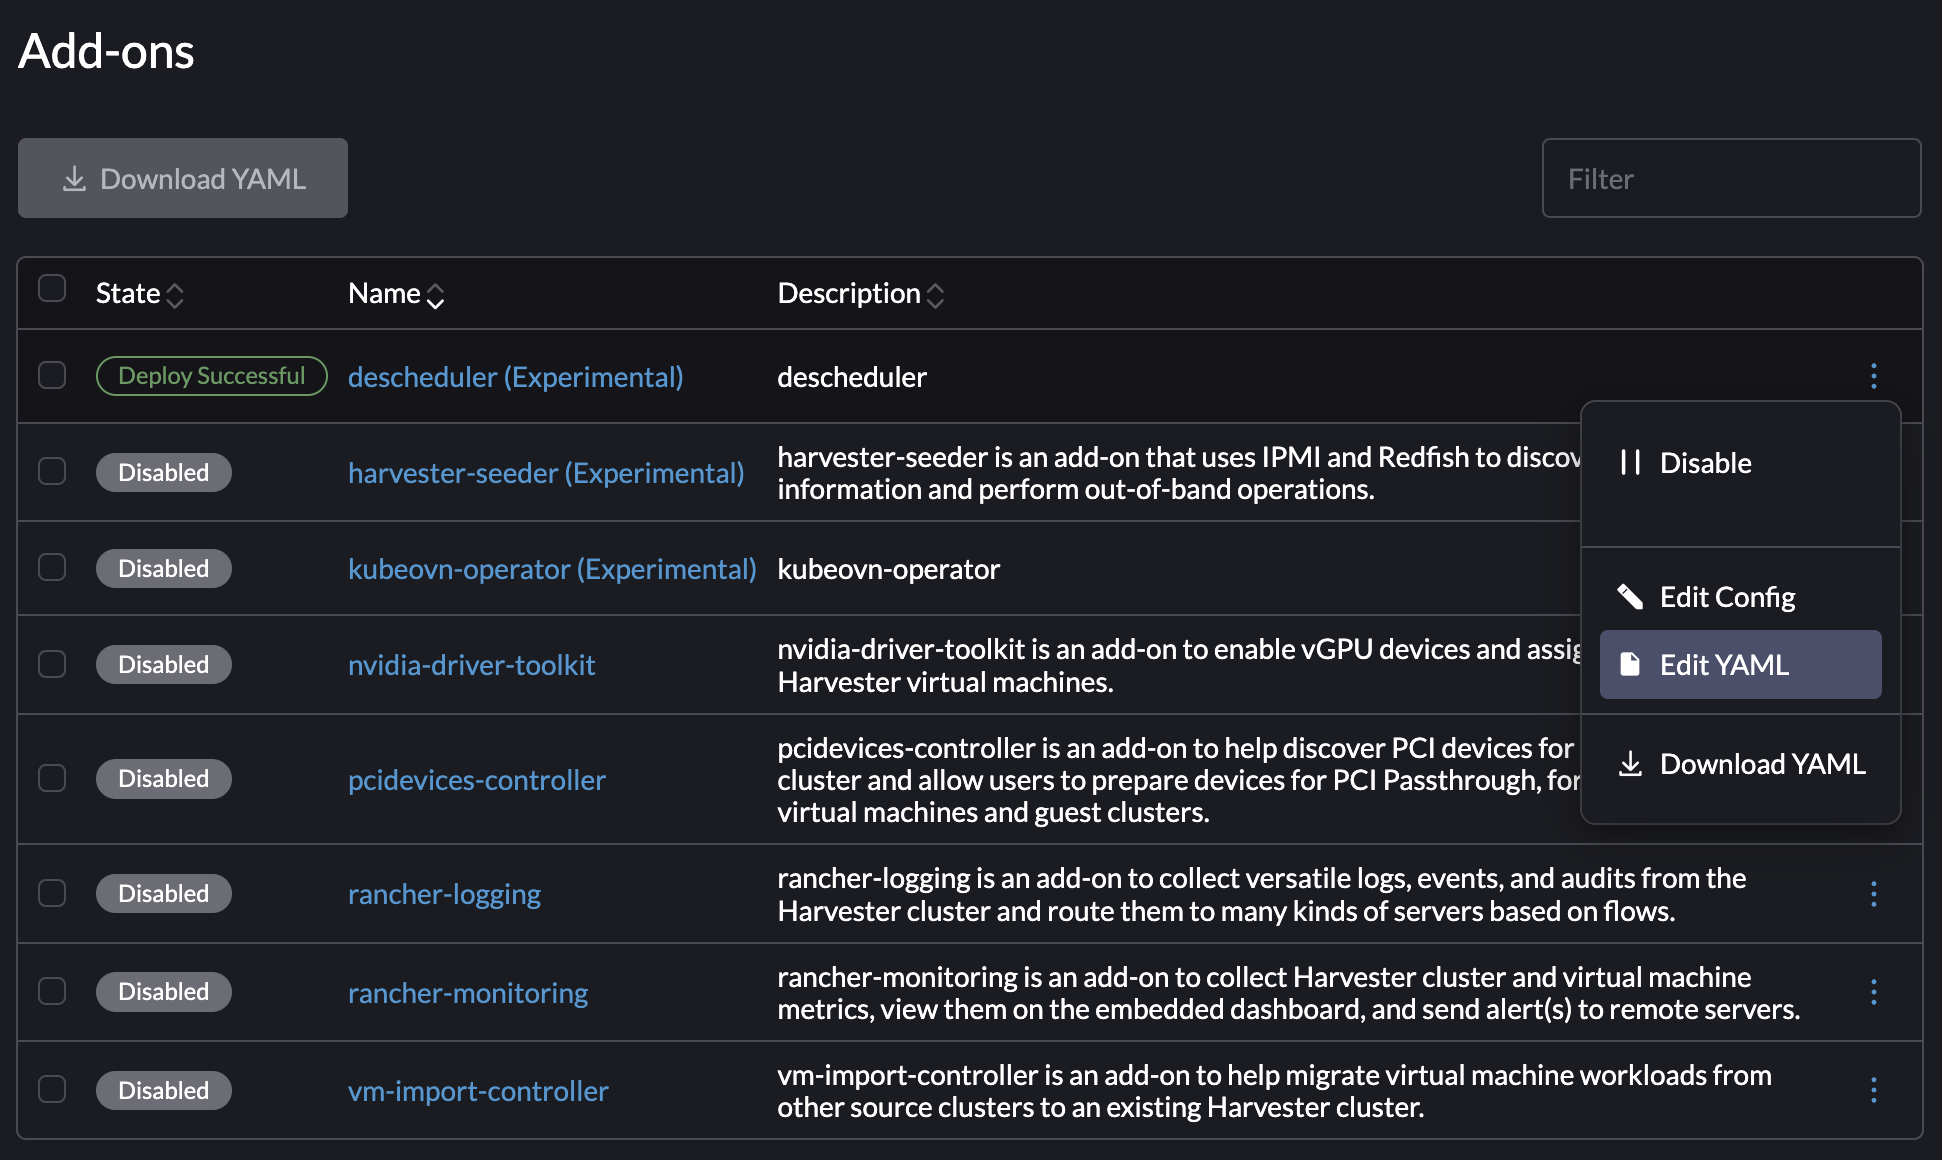
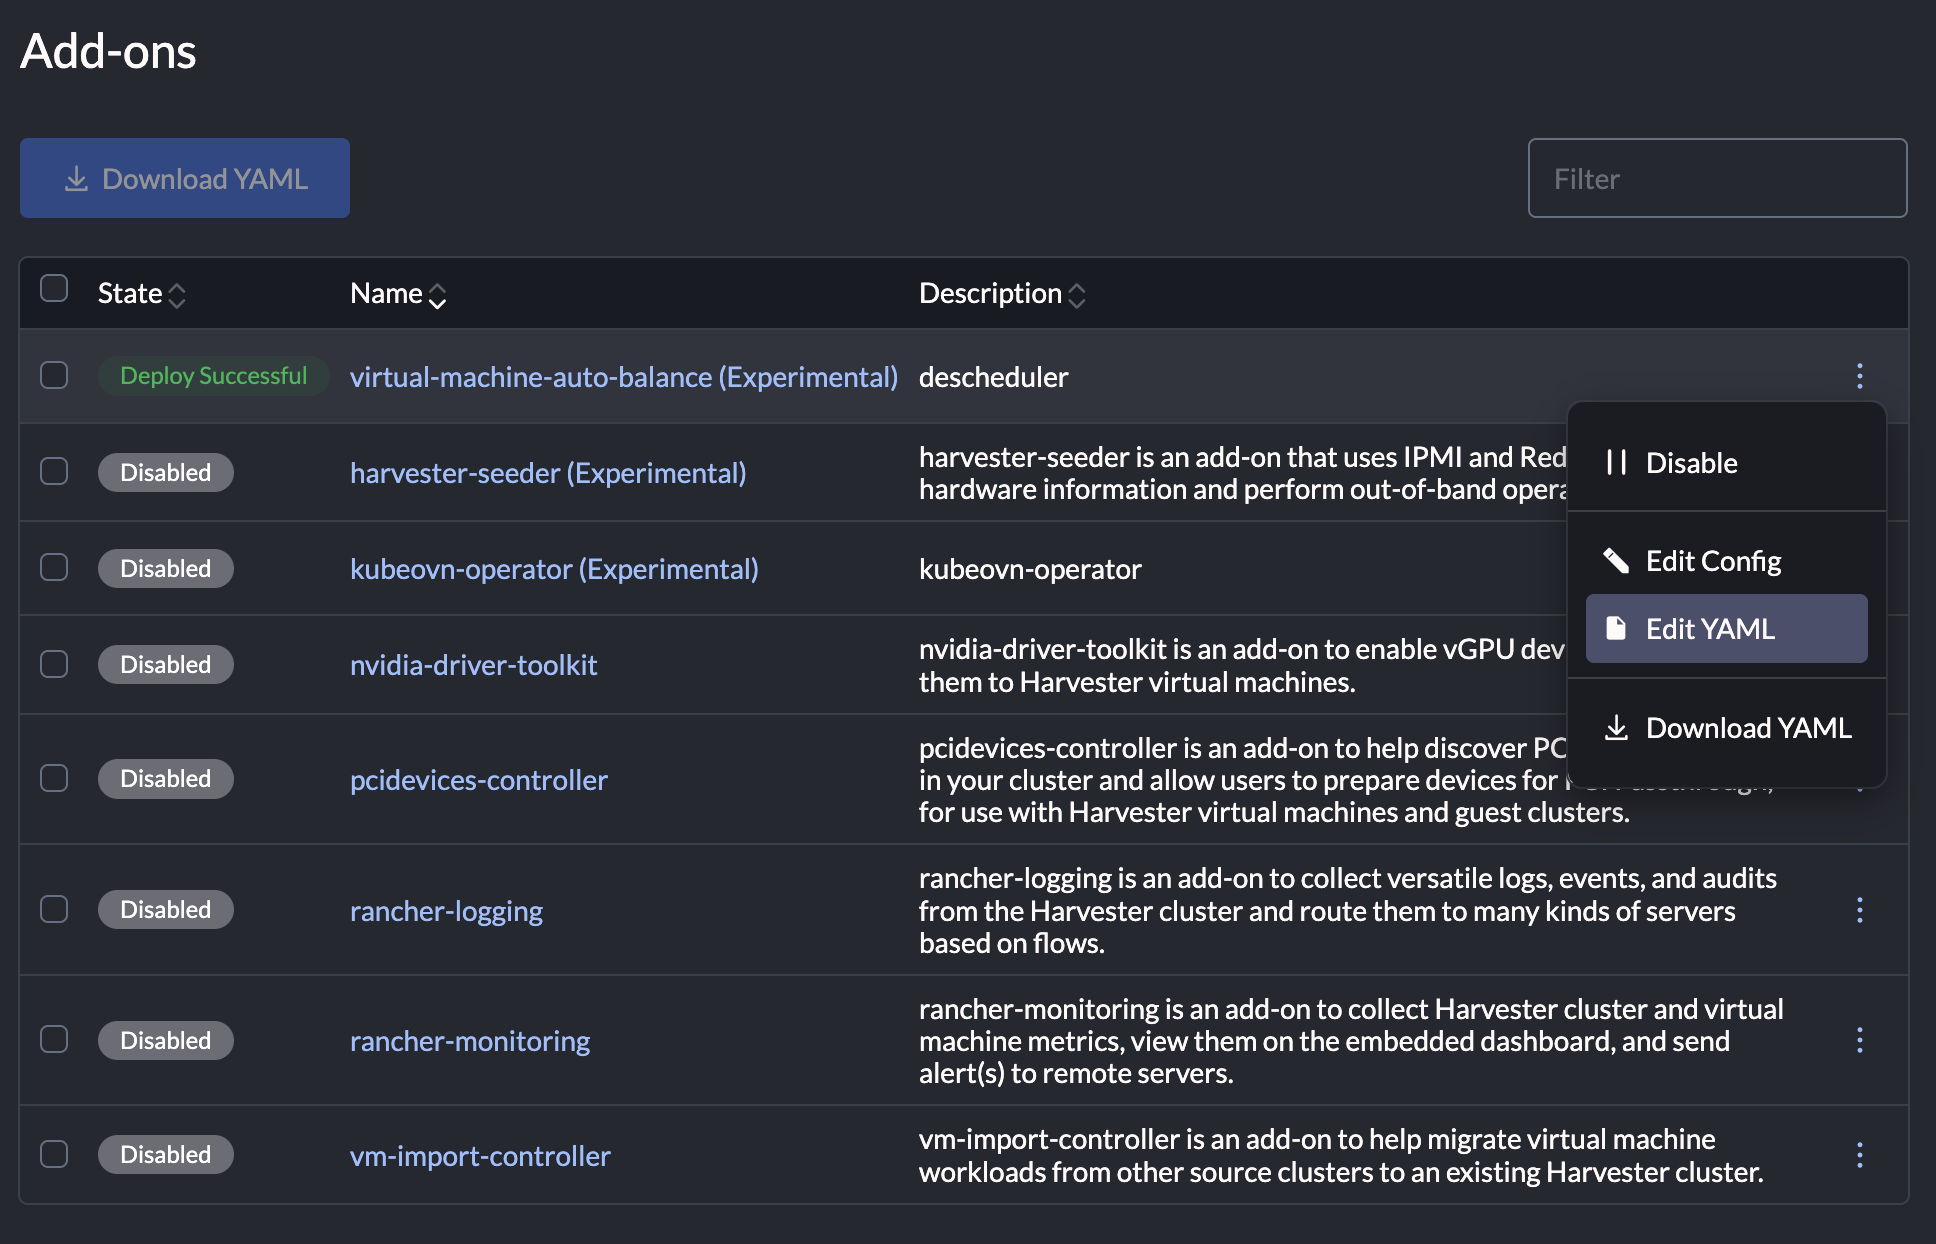
change descheduler to virtual-machine-auto-balance

diff --git a/docs/advanced/addons/virtual-machine-auto-balance.md b/docs/advanced/addons/virtual-machine-auto-balance.md
@@ -1,7 +1,7 @@
 ---
 sidebar_position: 10
-sidebar_label: Descheduler
-title: "Descheduler (Experimental)"
+sidebar_label: Virtual Machine Auto Balance
+title: "Virtual Machine Auto Balance  (Experimental)"
 ---
 
 _Available as of v1.7.0_
@@ -14,7 +14,7 @@ When enabled, the add-on deploys the Descheduler in the `kube-system` namespace 
 
 1. On the Harvester UI, go to **Advanced** > **Add-ons**.
 
-1. Select **descheduler (Experimental)**, and then select **⋮** > **Enable**.
+1. Select **virtual-machine-auto-balance  (Experimental)**, and then select **⋮** > **Enable**.
 
   ![](/img/v1.7/descheduler/descheduler-enable.png)
 
@@ -36,7 +36,7 @@ Select **⋮** > **Edit YAML** to customize the Descheduler policies according t
 
 1. On the Harvester UI, go to **Advanced** > **Add-ons**.
 
-1. Select **descheduler (Experimental)**, and then select **⋮** > **Disable**.
+1. Select **virtual-machine-auto-balance (Experimental)**, and then select **⋮** > **Disable**.
 
 ## Node Usage
 

diff --git a/docs/advanced/addons.md b/docs/advanced/addons.md
@@ -22,7 +22,7 @@ The following add-ons are available in this version:
 * [rancher-monitoring](../monitoring/harvester-monitoring.md)
 * [rancher-vcluster](./addons/rancher-vcluster.md) (Experimental)
 * [vm-import-controller](./addons/vmimport.md)
-* [descheduler](./addons/descheduler.md) (Experimental)
+* [virtual-machine-auto-balance](./addons/virtual-machine-auto-balance.md) (Experimental)
 
 You can enable and disable add-ons on the **Add-ons** screen of the Harvester UI.
 
